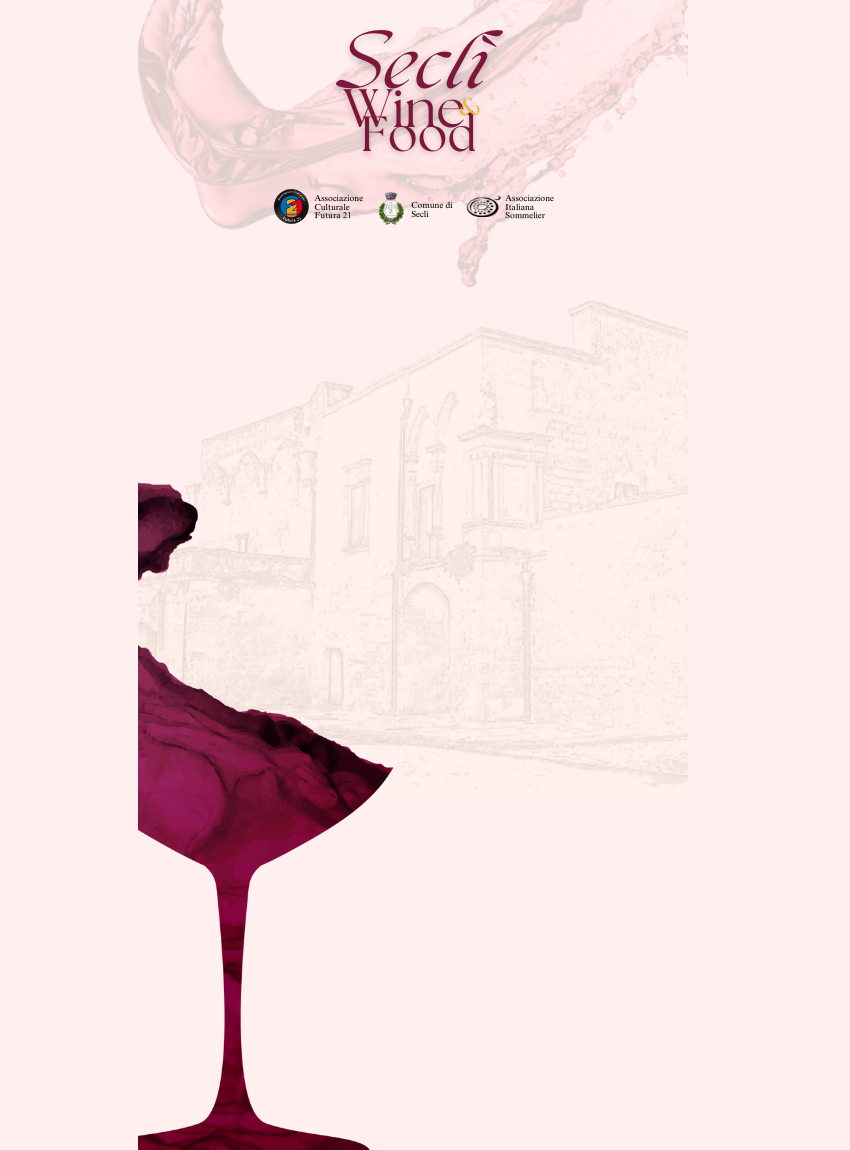
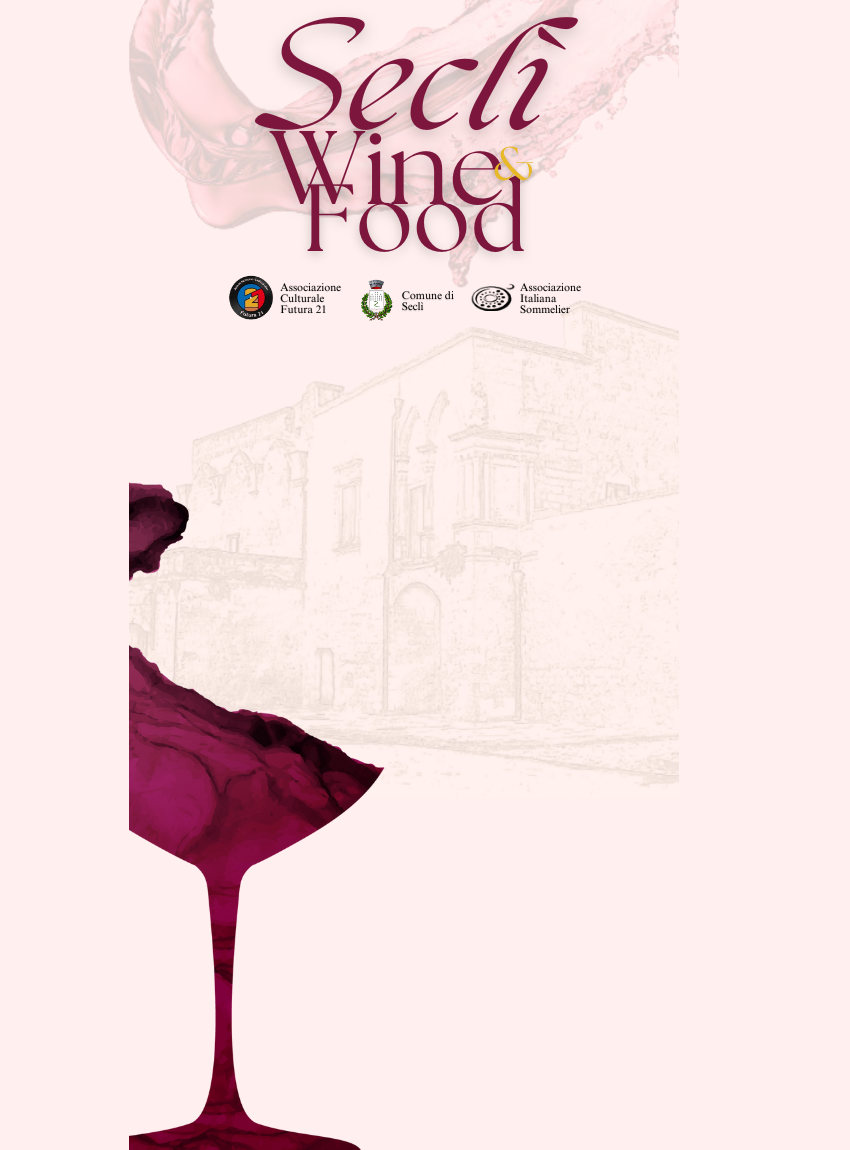
ok

diff --git a/index.html b/index.html
@@ -177,7 +177,6 @@
             flex-direction: column;
             width: 100%;
             max-width: 80vw;
-            padding-top: 55vw;
             gap: 20px;
         }
         
@@ -547,6 +546,11 @@
         .winemap.fade-out-background::before {
             opacity: 0;
         }
+        .hbox {
+            height: 65vw;
+            visibility: none;
+            overflow-x: hidden;
+        }
     </style>
 </head>
 
@@ -562,6 +566,7 @@
             
             <!-- Contenuto -->
             <div class="content" id="content">
+                <div class="hbox"></div>
                 <div class="buttons">
                     <!-- MODIFICATO: Rimosso location.href e aggiunto un attributo data-href per la destinazione -->
                     <button id="towinemap" class="map-button">
